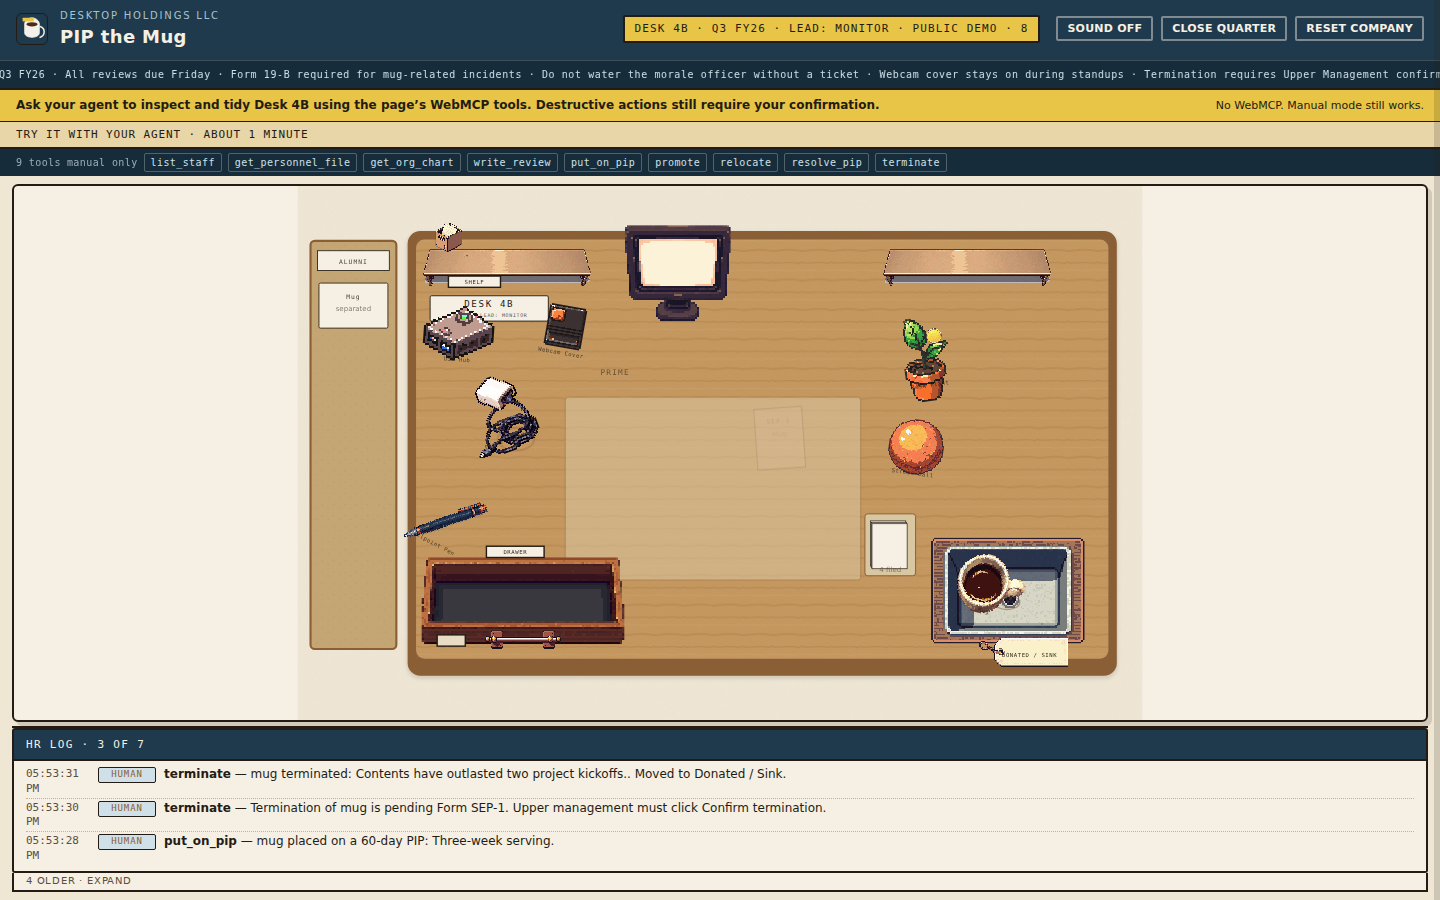
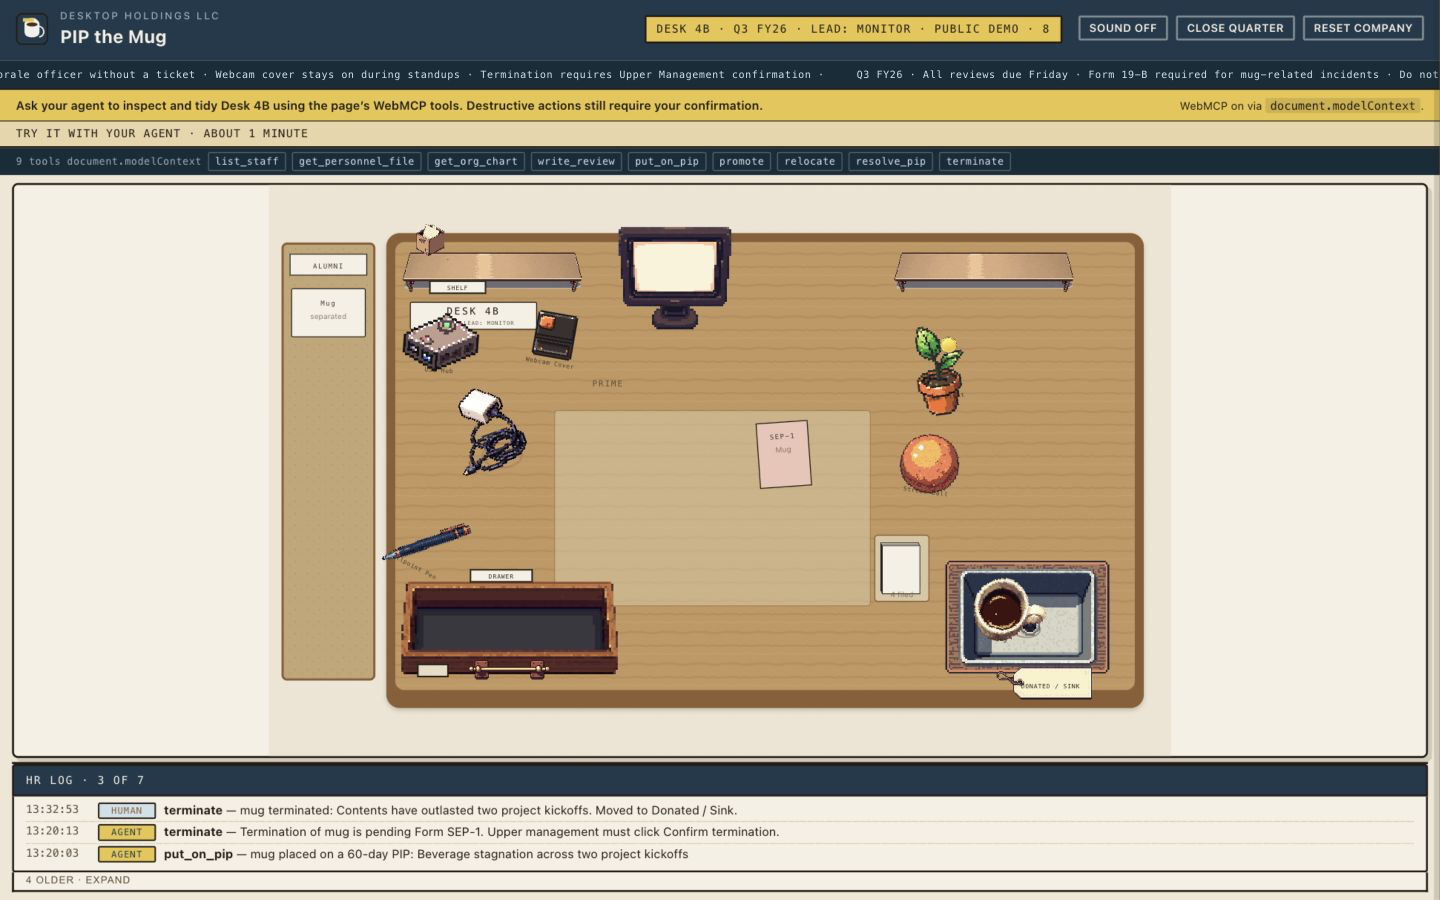
Replace release screenshots and record final media provenance

diff --git a/docs/asset-provenance.md b/docs/asset-provenance.md
@@ -2,7 +2,7 @@
 
 Every file in this repository that is not source code, plus the assets used to produce the submission video. The Devpost rules require a public repo containing the source, the assets, the instructions, and an open-source license visible in the GitHub About box.
 
-Every asset in this repository is cleared, and each row says on what basis. Do not reopen one without a reason. Two items are still open, and neither is a file in the repo: the soundtrack for the YouTube cut, and the homepage music loop if the demo ends up loading one. Should a future row need **UNKNOWN, OWNER REVIEW REQUIRED**, that marker means nobody has checked the terms yet and the row is not a claim of any license.
+Every asset used by the repository and the final submission video is cleared, and each row says on what basis. The optional homepage music loop is not part of the app or release.
 
 ## Summary
 
@@ -15,10 +15,10 @@ Every asset in this repository is cleared, and each row says on what basis. Do n
 | Logo | `public/logo.jpg` | Cleared. Grok Imagine output, owned by the owner, commercial use permitted by xAI. Credit "Created with Grok." |
 | Fonts | `src/styles.css` | System font stacks, no files bundled |
 | Sound in the app | `src/lib/audio.ts` | Synthesized at runtime, no audio file |
-| Homepage loop | `public/audio/`, not present | Owner transfer pending. The app loads no loop today |
-| Screenshots | `docs/demo/*.png` | Original captures. The current four are temporary, pending replacement |
+| Homepage loop | `public/audio/`, not present | Not used. The app loads no music file |
+| Screenshots | `docs/demo/*.png` | Cleared. Original captures from a verified WebMCP run |
 | Video narration | not in repo | Cleared. Grok, xAI TTS, voice Rigel |
-| Video soundtrack | not in repo | Open. The owner has not recorded which track the YouTube cut uses |
+| Video soundtrack | not in repo | Cleared. ElevenLabs Music API paid-plan generation, recorded below |
 
 ## Source code
 
@@ -103,23 +103,19 @@ This is the only sound the app makes today. A homepage music loop is a separate,
 
 ## Screenshots
 
-`docs/demo/*.png` are original screen captures of this application. No third-party content, no trademarks, no personal data. Covered by the repository's MIT license.
+`docs/demo/*.png` are original screen captures of this application. They include the PixelLab sprites and Grok-generated header logo under the terms recorded above. The captures contain no third-party trademarks or personal data. The repository's MIT license does not replace the asset terms.
 
-**The four on disk today are temporary.** `desk-initial.png`, `sep1-before.png`, `sep1-open.png`, and `sep1-after.png` were captured in a browser without WebMCP. The banner reads "No WebMCP. Manual mode still works.", the access strip reads "9 tools manual only", and every activity row reads HUMAN, including the pending termination request. They show manual parity, which is real, but they do not show an Agent row. No caption anywhere should claim they do.
+The three files were captured on 2026-08-28 in ChatGPT's in-app browser at 1440 by 900 from one reset demo run:
 
-Three replacements are coming from the owner's `work/demo7/` captures, which are not on this host yet. See owner transfer.
-
-| Source file | Destination | What it shows |
+| File | What it shows | SHA-256 |
 | --- | --- | --- |
-| `work/demo7/00-seed.png` | `docs/demo/desk-initial.png` | The freshly reset demo seed with nine tools |
-| `work/demo7/05-sep1.png` | `docs/demo/sep1-open.png` | Form SEP-1 raised by an agent action |
-| `work/demo7/06-mug-alumni.png` | `docs/demo/sep1-after.png` | The confirmed termination with the Human audit row |
-
-Three files replace four, so `sep1-before.png` goes away. Update the captions in `README.md` and `docs/devpost-submission.md` in the same pass.
[3 lines of base64/hex data omitted]
 
 ## Audio and video assets
 
-Two different things live under this heading and merging them would be a mistake. The submission video stays outside the repository and goes to YouTube. The homepage loop, if the public demo ever loads one, is a repository asset with its own provenance row.
+The submission video and a possible homepage loop are separate assets. The video stays outside the repository and goes to YouTube. A homepage loop would be a repository asset with its own provenance row.
 
 ### The `-paid` rule for ElevenLabs audio
 
@@ -150,17 +146,15 @@ Neither file is on this host. `public/audio/` does not exist.
 
 Not in the repository, and nothing in the app wants one yet. `public/audio/` does not exist, `src/lib/audio.ts` synthesizes the paper-shuffle cue at runtime, and no source file references an `.mp3` or an `.ogg`. So the homepage has no background music file, and that is the current, accurate state.
 
-If the public demo is going to load the loop, the two files transfer to `public/audio/pip-the-mug-homepage-loop-paid.mp3` and `.ogg`, the exact paths `.gitignore` allows. They become repository assets at that moment, and this section then needs a filled-in ElevenLabs paid-plan row taken from `pip-the-mug-elevenlabs-music-provenance-paid.json`. That JSON is not on this host, so the terms stay unfilled.
-
-Owner action, tracked in `docs/public-release-checklist.md`.
+The final public demo does not load the loop. The files remain outside the repository. Adding homepage music later would be a new release change requiring its own playback controls, provenance update, and browser test.
 
 ### Video soundtrack
 
-**Open.** The owner has not recorded which track the YouTube cut uses.
+**Cleared.** The final 1 minute 53.642 second video uses `pip-the-mug-demo-underscore-paid.mp3`, generated through the ElevenLabs Music API after the owner stated that the same account had been upgraded to the Starter paid plan. The API request began at `2026-08-28T09:32:19Z`, used model `music_v2`, requested `mp3_48000_192`, and forced an instrumental result. The subscription tier was not queried by automation, so the owner retains the Starter receipt separately.
 
-It could be the homepage loop, another paid ElevenLabs file that stays off-repo, or no music. Those are three different decisions with three different records, so do not assume the video and the homepage share a track. The owner has not said they do.
[1 lines of base64/hex data omitted]
 
-Any ElevenLabs audio in the cut falls under the `-paid` rule above and needs its plan, date, and terms written here. A non-ElevenLabs choice, an original composition or a CC0 track, sits outside the naming rule and still needs its source and terms written here.
+Both ElevenLabs API calls requested C2PA signing. The unchanged API source is retained outside the repository. The processed track and final MP4 are derivatives, so this record does not claim that the source manifest survived re-encoding. ElevenLabs states that output generated during a paid subscription can be used commercially: https://help.elevenlabs.io/hc/en-us/articles/13313564601361-Can-I-publish-the-content-I-generate-on-the-platform. The Music API licensing page covers normal online video use: https://elevenlabs.io/eleven-music-api.
 
 ### Narration
 
@@ -169,22 +163,6 @@ Any ElevenLabs audio in the cut falls under the `-paid` rule above and needs its
 English narration created with Grok using xAI TTS, voice Rigel. Script written for this project.
 
 The narration file is not in the repository and stays out with the rest of the video. The YouTube description carries the line "Narration created with Grok". Naming the tool in prose is the whole of it. No xAI or Grok logo goes in the video, the README, the screenshots, or the Devpost project image, and no logo file enters the repo.
-
-## Owner transfer
-
-Three files live on the owner's Mac. They are not on this host, and nobody should go looking for them here.
-
-```
-/Users/robby/Documents/Codex/2026-08-27/ff/outputs/pip-the-mug-homepage-loop-paid.mp3
-/Users/robby/Documents/Codex/2026-08-27/ff/outputs/pip-the-mug-homepage-loop-paid.ogg
-/Users/robby/Documents/Codex/2026-08-27/ff/outputs/pip-the-mug-elevenlabs-music-provenance-paid.json
-```
-
-The two audio files go to `public/audio/` at the gitignore exception paths, and only if the public demo loads the loop. If it does not, they stay off-repo and the homepage keeps no music file.
-
-The JSON is a provenance record, not a public homepage asset. It does not belong in `public/`. Once it is here, copy its facts into the homepage loop section above. Until then that section stays unfilled.
-
-The `work/demo7/` screenshots are part of the same transfer. See the screenshots section for where the three files go.
 
 ## Trademarks
 

diff --git a/docs/public-release-checklist.md b/docs/public-release-checklist.md
@@ -13,19 +13,9 @@ Do not reopen these. The basis for each is written up in `docs/asset-provenance.
 - **`public/sprites/*.png`, the 23 PixelLab pixflux PNGs.** The owner retrieved the PixelLab terms on 2026-08-28 from https://www.pixellab.ai/termsofservice, page last updated 2025-11-23. Clause 1.3 gives the user the copyrights and commercial use without permission. Clause 3.3 keeps ownership with the user and allows use, modification, and distribution for any purpose except training other models without PixelLab's explicit permission. The owner records that no third-party protected reference images or trademarks were used as inputs. The PixelLab API token was never committed. The sprites are not MIT. They are owned outputs carried under those terms, so do not relabel them.
[1 lines of base64/hex data omitted]
 - **Video narration.** English narration created with Grok using xAI TTS, voice Rigel. Script written for this project. The file stays out of the repository with the rest of the video. The YouTube description carries the line "Narration created with Grok", and no xAI or Grok logo goes anywhere.
-
-## Blocking: open items
-
-- [ ] **Owner transfer of three files from the Mac.** They are not on this host. Do not go looking for them here.
-  ```
-  /Users/robby/Documents/Codex/2026-08-27/ff/outputs/pip-the-mug-homepage-loop-paid.mp3
-  /Users/robby/Documents/Codex/2026-08-27/ff/outputs/pip-the-mug-homepage-loop-paid.ogg
-  /Users/robby/Documents/Codex/2026-08-27/ff/outputs/pip-the-mug-elevenlabs-music-provenance-paid.json
-  ```
-  The two audio files go to `public/audio/` at the exact gitignore exception paths, and only if the public demo loads the loop. The JSON is a provenance record, not a public homepage asset, so keep it out of `public/`.
-- [ ] **Screenshot replacement, after the transfer.** The `work/demo7/` captures are not on this host yet. Once they are, replace the four temporary frames with three: `00-seed.png` becomes the reset demo seed with nine tools, `05-sep1.png` becomes Form SEP-1 raised by an agent action, and `06-mug-alumni.png` becomes the confirmed termination with the Human audit row. Delete `sep1-before.png`, and update the captions in `README.md` and `docs/devpost-submission.md` in the same pass. Do not recapture these by hand.
-- [ ] **Homepage loop wiring and provenance, if the demo will load it.** Today it does not: `public/audio/` does not exist, `src/lib/audio.ts` synthesizes the paper-shuffle cue at runtime, and no source file references an `.mp3` or `.ogg`. Decide whether the public demo loads the loop. If yes, place the two transferred files at the gitignore exception paths and fill in the homepage loop provenance row in `docs/asset-provenance.md` from `pip-the-mug-elevenlabs-music-provenance-paid.json`. If no, the homepage keeps no music file and this item closes as "not used".
-- [ ] **Video soundtrack for the YouTube cut.** The owner has not recorded which track the cut uses. It could be the homepage loop, another paid ElevenLabs file that stays off-repo, or no music. Do not assume the video and the homepage share a track. Nobody has said they do. **Any ElevenLabs audio in the cut falls under the `-paid` rule.** Only a file whose name contains `-paid` may be used in anything public. An ElevenLabs file without it is ineligible, and a free-plan track stays unsafe even when credited, because attribution is a condition on use rather than a grant of commercial rights. Renaming an old free-plan file does not fix it. Record the plan, date, and terms in `docs/asset-provenance.md`. A non-ElevenLabs choice, an original composition or a CC0 track, is outside the naming rule and still needs its source and terms recorded.
[1 lines of base64/hex data omitted]
+- **Homepage loop.** Not used. The app loads no music file, `public/audio/` does not exist, and the public release keeps it that way.
+- **Screenshots.** The three 1440 by 900 files in `docs/demo/` come from one verified WebMCP run and show the reset seed, SEP-1 with an Agent row, and the confirmed separation with a Human row.
 
 ## Repository
 
@@ -44,7 +34,7 @@ Do not reopen these. The basis for each is written up in `docs/asset-provenance.
 - [ ] `dist/` is not committed.
 - [ ] No video file is committed. The submission video lives on YouTube and stays out of the repository, and `VIDEO.md` stays gitignored and unlinked from every public doc.
 - [ ] The audio rules in `.gitignore` still hold and nothing slipped past them. They ignore `*.mp3`, `*.wav`, `*.m4a`, and `*.ogg`, then re-include exactly two paths: `!public/audio/pip-the-mug-homepage-loop-paid.mp3` and `!public/audio/pip-the-mug-homepage-loop-paid.ogg`. That is a two-path exception, not a blanket `-paid` un-ignore, and it should not be widened into one. Every other audio file stays ignored. Video extensions are not in `.gitignore`, so they must not be committed; the submission video lives on YouTube. Run `git ls-files | grep -iE '\.(mp3|wav|m4a|ogg|flac|aac|mp4|mov|webm)$'` and confirm the only hits are those two homepage-loop paths, if they are here at all. Git will accept a free-plan track renamed to one of them, so the provenance record is the check, not the filter.
-- [ ] Screenshots in `docs/demo/` match the current build and show WebMCP on. The four frames on disk today are temporary: they were captured without WebMCP, so the banner reads "No WebMCP. Manual mode still works.", the access strip reads "9 tools manual only", and every activity row reads HUMAN. They show manual parity, not the Agent versus Human split the submission argues for, and no caption claims otherwise. The replacement is the three-image `work/demo7/` set, tracked as a blocking item above. Do not recapture by hand.
+- [x] Screenshots in `docs/demo/` match the current build and show WebMCP on. The three frames show the reset seed, SEP-1 with an Agent row, and the confirmed separation with a Human row.
 - [ ] The commit that will be submitted is recorded. Note the full SHA here, and tag it (for example `submission-2026-09-03`) so the judged state is identifiable later: `SUBMITTED_COMMIT_SHA`.
 
 ## Placeholders
@@ -82,7 +72,7 @@ Run these against the deployed URL, not localhost, with a real agent. The full s
 
 - [ ] Under three minutes.
 - [ ] Uploaded to YouTube and set to public. Not unlisted, not private.
-- [ ] Soundtrack resolved per the blocking item above.
+- [x] Soundtrack resolved and recorded in `docs/asset-provenance.md`.
 - [ ] Every ElevenLabs audio file used in the final cut has `-paid` in its filename. Check the actual files in the editing project, not the export. One non-`-paid` ElevenLabs clip anywhere in the timeline fails this. Non-ElevenLabs audio is not covered by the naming rule and is cleared through its own provenance row instead.
 - [ ] Confirmed that no non-`-paid` ElevenLabs file was published, committed, uploaded, or linked anywhere: repo, live site, YouTube, or Devpost.
 - [ ] The description carries "Narration created with Grok." Add "Logo created with Grok." only if `public/logo.jpg` appears in the video or as the YouTube thumbnail. Drop the logo line if it does not.

diff --git a/docs/devpost-submission.md b/docs/devpost-submission.md
@@ -242,13 +242,11 @@ Worth trying afterwards, each one exercises a different guard:
 
 ## Screenshot captions
 
-Three captions for the three-image set that goes with the submission, from the owner's `work/demo7/` captures.
+Three captions for the verified WebMCP screenshots in `docs/demo/`.
 
-1. `00-seed.png`. Desk 4B on a freshly reset demo seed. Eight objects, the Desk Plant already on a 60-day PIP, an empty alumni wall, and nine WebMCP tools registered on the page.
-2. `05-sep1.png`. Form SEP-1, raised by an agent's `terminate` call. The agent cannot complete it: "The agent cannot click this control. Upper management has to confirm it here. Mug stays employed until you do."
-3. `06-mug-alumni.png`. After a human clicked Confirm termination. Mug is in the Donated / Sink box, the alumni wall reads "Mug separated", and the activity log shows the request as Agent and the separation as Human.
-
-**Do not upload the four images currently in `docs/demo/`.** They were captured in a browser without WebMCP, so the banner reads "No WebMCP. Manual mode still works.", the access strip reads "9 tools manual only", and every row reads HUMAN. Captions 2 and 3 above describe an Agent row that those files do not contain. The demo7 captures are still an owner transfer, tracked in `docs/public-release-checklist.md`.
+1. `desk-initial.png`. Desk 4B on a freshly reset demo seed. Eight objects, the Desk Plant already on a 60-day PIP, an empty alumni wall, and nine WebMCP tools registered on the page.
+2. `sep1-open.png`. Form SEP-1, raised by an agent's `terminate` call. Mug remains employed while the agent stops for upper management.
+3. `sep1-after.png`. After a human clicked Confirm termination. Mug is in the Donated / Sink box, the alumni wall reads "Mug separated", and the activity log shows the request as Agent and the separation as Human.
 
 ## YouTube title
 
@@ -256,7 +254,7 @@ PIP the Mug: a WebMCP desk where your agent is HR and cannot fire anyone alone
 
 ## YouTube description
 
-The logo credit is only for when `public/logo.jpg` appears in the video or as the YouTube thumbnail. If it does not, drop "Logo created with Grok." and keep the narration credit.
+The current video does not contain `public/logo.jpg`. Add "Logo created with Grok." only if that file becomes the YouTube thumbnail.
 
 PIP the Mug is a desk of illustrated office objects that are also the staff of Desk 4B at Desktop Holdings. You are upper management. Your browser's agent is HR.
 
@@ -271,7 +269,7 @@ Source (MIT): PUBLIC_REPO_URL
 
 Requires ChatGPT's in-app browser, or Google Chrome 149 or later with chrome://flags/#enable-webmcp-testing enabled.
 
-Narration created with Grok. Logo created with Grok.
+Narration created with Grok.
 
 Code is MIT licensed. Sprites were generated with PixelLab and are used under the PixelLab terms of service. They are owned outputs, not MIT. Full asset provenance is in docs/asset-provenance.md.
 
@@ -283,7 +281,7 @@ Paste this wherever the submission asks about third-party assets, and keep it ac
 
 **Favicon.** `public/favicon.svg` is an original hand-authored SVG. Covered by the repository's MIT license.
 
-**Screenshots.** `docs/demo/*.png` are original captures of this application. No third-party content, trademarks, or personal data. The four currently on disk are temporary placeholders captured without WebMCP, and a three-image set from the owner's `work/demo7/` captures replaces them before submission. Do not upload the placeholders.
+**Screenshots.** `docs/demo/*.png` are original 1440 by 900 captures of one verified WebMCP run in ChatGPT's in-app browser. They show the reset seed, the pending SEP-1 request logged as Agent, and the confirmed separation logged as Human. They include the cleared PixelLab sprites and Grok-generated header logo described above. No third-party trademarks or personal data appears in them.
 
 **Fonts.** System font stacks only. No font files are bundled and no webfont is fetched. Naming a family in CSS is not distribution.
 
@@ -295,7 +293,7 @@ Paste this wherever the submission asks about third-party assets, and keep it ac
 
 **Homepage music loop. Not present.** There is no `public/audio/` directory and no audio file in the repository. If the public demo is wired to load an ElevenLabs paid-plan loop before submission, the two files land at `public/audio/pip-the-mug-homepage-loop-paid.mp3` and `.ogg`, which are the only two paths `.gitignore` accepts, and their plan, date, and terms get recorded in `docs/asset-provenance.md` from the owner's provenance JSON. Until that happens, the homepage has no background music and nothing to disclose here.
 
-**Music in the video. Open.** No ElevenLabs Free-plan track is used. Free-plan output is not submission-safe, and an attribution requirement is not a grant of commercial rights. ElevenLabs audio is admitted by filename. Only a file whose name contains `-paid` may be used in anything public, and no such file is in the repository today. The rule covers ElevenLabs audio and nothing else, so it does not touch the sprites, the logo, the screenshots, the source, or the Grok narration, each of which has its own row here. The homepage currently loads no music file at all. The app synthesizes its one sound cue in `src/lib/audio.ts` and references no audio file. The soundtrack for the YouTube cut is still the owner's call, and it is a separate decision from the homepage loop. **Replace this paragraph with the specific choice before publishing the video.**
[1 lines of base64/hex data omitted]
 
 **Narration in the video. Cleared.** English narration created with Grok using xAI TTS, voice Rigel. Script written for this project. The narration file is not in the repository and stays out with the rest of the video. The YouTube description credits it with the line "Narration created with Grok". No xAI or Grok logo appears in the video, the README, the screenshots, or the project image.
 

diff --git a/README.md b/README.md
@@ -206,17 +206,13 @@ Deployment target is Vercel, static, no functions. `vercel.json` rewrites app ro
 
 ## Screenshots
 
-**These four are temporary and pending replacement.** They were captured in a browser without WebMCP, so the banner reads "No WebMCP. Manual mode still works.", the access strip reads "9 tools manual only", and every activity row reads HUMAN. The page still builds and lists the same nine tools, and Form SEP-1 still gates the termination, which is manual parity working as designed. What they do not show is an Agent row, and none of the captions below claims one.
-
-A three-image set replaces them once the owner transfers the `work/demo7/` captures: the reset demo seed with nine tools, Form SEP-1 raised by an agent action, and the confirmed termination with the Human audit row. Until then, run `docs/demo-protocol.md` yourself or watch the video to see the Agent and Human rows side by side.
+These captures come from one WebMCP run in ChatGPT's in-app browser. The first frame is the reset seed, the second is the point where the agent has stopped at SEP-1, and the third follows the human confirmation.
 
 ![Desk 4B on a fresh demo seed. Eight objects, the Plant's PIP-90 card on the blotter, an empty alumni wall reading "No separations this quarter", and the nine tool names listed across the access strip.](docs/demo/desk-initial.png)
 
-![Mug on the blotter, still employed, now carrying a yellow PIP sticker, with its PIP-90 card filed next to it on the blotter.](docs/demo/sep1-before.png)
+![Form SEP-1 raised by the agent's terminate call. Mug remains employed, the activity log records the pending request as Agent, and only upper management can choose Confirm termination or Keep employed.](docs/demo/sep1-open.png)
 
-![Form SEP-1. The dialog reads "The agent cannot click this control. Upper management has to confirm it here. Mug stays employed until you do.", with Confirm termination and Keep employed as the only ways out.](docs/demo/sep1-open.png)
-
-![After confirmation. Mug sits in the Donated / Sink box, the alumni wall reads "Mug separated", and the blotter is empty.](docs/demo/sep1-after.png)
+![After confirmation. Mug sits in the Donated / Sink box, the alumni wall reads "Mug separated", and the activity log records the separation as Human.](docs/demo/sep1-after.png)
 
 ## Security and the trust boundary
 
